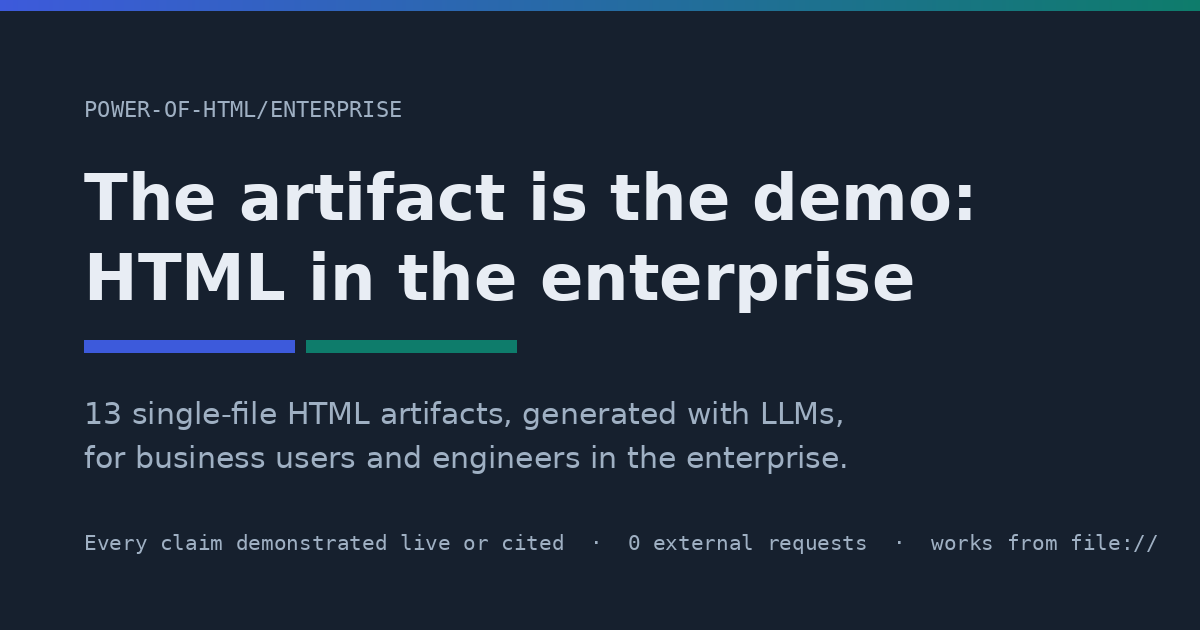
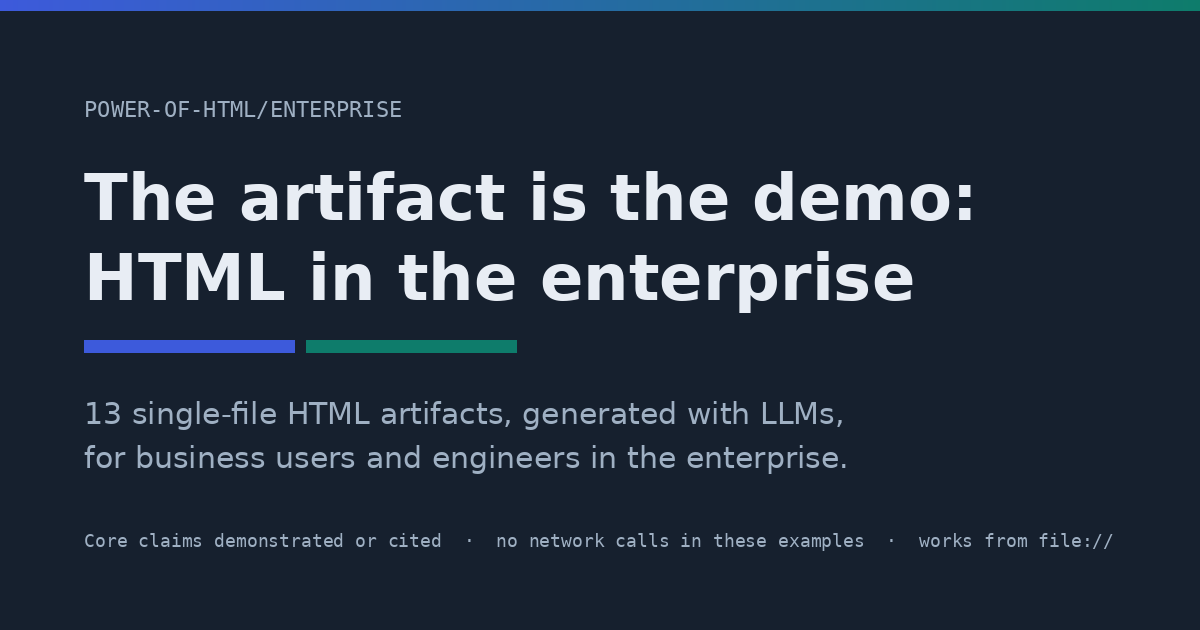
Harden public-facing claims for release (reputation safety) (#7)
* Harden public-facing claims for release (reputation safety)

Wording-only pass to make a few too-absolute phrases precise and
defensible before public sharing. No design, architecture, file, thesis,
or dependency changes.

- Objections "Is it secure?": reframe from an implied certification to
  "lower security overhead… still needs human review before enterprise use"
- Objections PDF/PowerPoint: "A PDF is none of those" → PDF/PowerPoint are
  still valid records, weaker only when interaction/inspection/diffs matter
- Lens 1 intro: "replace the documents… every week" → "show how everyday
  documents can be upgraded, and in some cases replaced"
- Hero + README reproducibility: "you will get similar output" → "you can
  often get (broadly/directionally) similar output"
- Honesty note: "Any capable model can reach similar quality" → "Most
  capable models can get close"
- Add disclaimer to the index honesty note and README intro:
  "This is a demonstration pattern, not a production system or security
  certification."
- og-image source text: "Every claim demonstrated live or cited · 0
  external requests" → "Core claims demonstrated or cited · no network
  calls in these examples"; auto-fit the footnote width

https://claude.ai/code/session_01XbV7H5YFFgZeRjq43ZjZrD

* Regenerate og-image.png with hardened footnote

Rebuild the social card so the preview matches the updated source text:
"Core claims demonstrated or cited · no network calls in these examples
[…]

Changed region(s): [[0.0617, 0.8444, 0.74, 0.8746], [0.7708, 0.8444, 0.9558, 0.8746]]

diff --git a/index.html b/index.html
@@ -319,7 +319,7 @@
       printable, attachable to a ticket, and openable on any locked-down laptop.</p>
       <p class="thesis">The thirteen artifacts below are real, working files, generated with an LLM. Each carries the
       brief that produced it. Run that brief in the model of your choice, whether that is GPT, Claude, Gemini, Grok or
-      DeepSeek, and iterate a few rounds. You will get <strong>similar output, not identical</strong>. That is the point:
+      DeepSeek, and iterate a few rounds. You can often get <strong>broadly similar output, not identical</strong>. That is the point:
       the capability belongs to LLMs, not to any one product.</p>
     </div>
     <aside class="spec" aria-label="Verifiable properties of this site">
@@ -340,10 +340,11 @@
   <div class="wrap">
     <span class="tag">Read this first</span>
     <p>These artifacts were built with <strong>Claude Code, an LLM coding agent</strong>, over several rounds of
-    iteration. They are shown as the bar to aim for, not as a guaranteed first answer. Any capable model can reach
-    similar quality if you iterate; none will reproduce these byte for byte. Treat each artifact as a first draft to
+    iteration. They are shown as the bar to aim for, not as a guaranteed first answer. Most capable models can get
+    close if you iterate; none will reproduce these byte for byte. Treat each artifact as a first draft to
     check, not a finished record: an LLM can be confidently wrong, so a person reviews and owns the contents before
-    anyone relies on them. All names and numbers are fictional. ABC Corp does not exist.</p>
+    anyone relies on them. All names and numbers are fictional. ABC Corp does not exist. This is a demonstration
+    pattern, not a production system or security certification.</p>
   </div>
 </div>
 
@@ -439,8 +440,8 @@ decommission sign-off moved to 17 Jul.
       <div class="eyebrow">Lens 1 · LLMs for business users</div>
       <h2>Everyday documents, upgraded</h2>
       <p>No IDE, no repo, no deploy. You paste a brief into the assistant you already have, save its answer as a
-      <code>.html</code> file, and open it in a browser. That is the whole workflow. The six artifacts below replace
-      the documents business teams produce every week.</p>
+      <code>.html</code> file, and open it in a browser. That is the whole workflow. The six artifacts below show
+      how everyday business documents can be upgraded, and in some cases replaced, by self-contained HTML.</p>
     </div>
     <div class="register">
       <a class="row" href="demos/biz-01-status-onepager.html">
@@ -646,10 +647,10 @@ decommission sign-off moved to 17 Jul.
     <p class="sub">The five questions that come up the moment you suggest this inside an enterprise. Short, honest answers.</p>
     <div class="box">
       <table class="obj-table">
-        <tr><td class="q">Is it secure?</td><td>One file, <span class="yes">zero external requests</span> by construction. Nothing to install, no runtime to CVE-scan. A reviewer can read the whole thing, or just turn the network off.</td></tr>
+        <tr><td class="q">Is it secure?</td><td>Lower security overhead than a typical web app: no package dependency tree, no third-party runtime, and <span class="yes">no network calls in these examples</span>. The whole artifact is inspectable as plain text, but the HTML and JavaScript still need human review before enterprise use.</td></tr>
         <tr><td class="q">Is it maintainable?</td><td>It is plain text. It diffs in git, reviews like code, and has no framework or build step to churn or break next quarter.</td></tr>
         <tr><td class="q">Does it work as a record?</td><td>It attaches to a change ticket or evidence pack as one file, and still opens in two years with nothing but a browser. A person signs off on the contents.</td></tr>
-        <tr><td class="q">Better than a PDF or PowerPoint?</td><td>For interactive evidence, yes: it is filterable and printable <em>and</em> diffable. A PDF is none of those, and a deck is not attachable as record.</td></tr>
+        <tr><td class="q">Better than a PDF or PowerPoint?</td><td>For interactive evidence, often yes: HTML can be filterable, printable <em>and</em> diffable. PDF and PowerPoint are still valid records, but they are weaker when interaction, inspection or version diffs matter.</td></tr>
         <tr class="honest"><td class="q">Will every LLM nail it first try?</td><td><b>No — and that honesty is the point.</b> You iterate a few rounds, in any capable model. These are the bar to aim for, not a guaranteed first answer. None will reproduce them byte for byte.</td></tr>
       </table>
     </div>

diff --git a/tools/make_og_image.py b/tools/make_og_image.py
@@ -43,8 +43,12 @@ d.rectangle([x + 222, 340, x + 432, 352], fill=GH)
 d.text((x, 396), "13 single-file HTML artifacts, generated with LLMs,", font=sans(30), fill=DARK_SOFT)
 d.text((x, 440), "for business users and engineers in the enterprise.", font=sans(30), fill=DARK_SOFT)
 
-d.text((x, 530), "Every claim demonstrated live or cited  ·  0 external requests  ·  works from file://",
-       font=mono(21), fill=DARK_SOFT)
+footnote = "Core claims demonstrated or cited  ·  no network calls in these examples  ·  works from file://"
+# keep the footnote inside the safe margin: step the size down only if the longer text overflows
+foot_size = 21
+while foot_size > 14 and d.textlength(footnote, font=mono(foot_size)) > W - 2 * x:
+    foot_size -= 1
+d.text((x, 530), footnote, font=mono(foot_size), fill=DARK_SOFT)
 
 out = Path(__file__).resolve().parent.parent / "assets" / "og-image.png"
 out.parent.mkdir(exist_ok=True)

diff --git a/README.md b/README.md
@@ -4,8 +4,10 @@ Thirteen self-contained `.html` artifacts showing what LLMs can produce for **bu
 and for **engineers**, plus a gallery page that ties it together.
 Each artifact carries the brief that produces it. Run that brief in the model of your choice
 (GPT, Claude, Gemini, Grok, DeepSeek, or your enterprise assistant), iterate a few rounds, and
-you will get similar output. Not identical, and that is the point: the capability belongs to
-LLMs, not to any one product.
+you can often get directionally similar output. Not identical, and that is the point: the
+capability belongs to LLMs, not to any one product.
+
+This is a demonstration pattern, not a production system or security certification.
 
 **Live site:** https://vishal8shah.github.io/HTML-with-Claude/
 